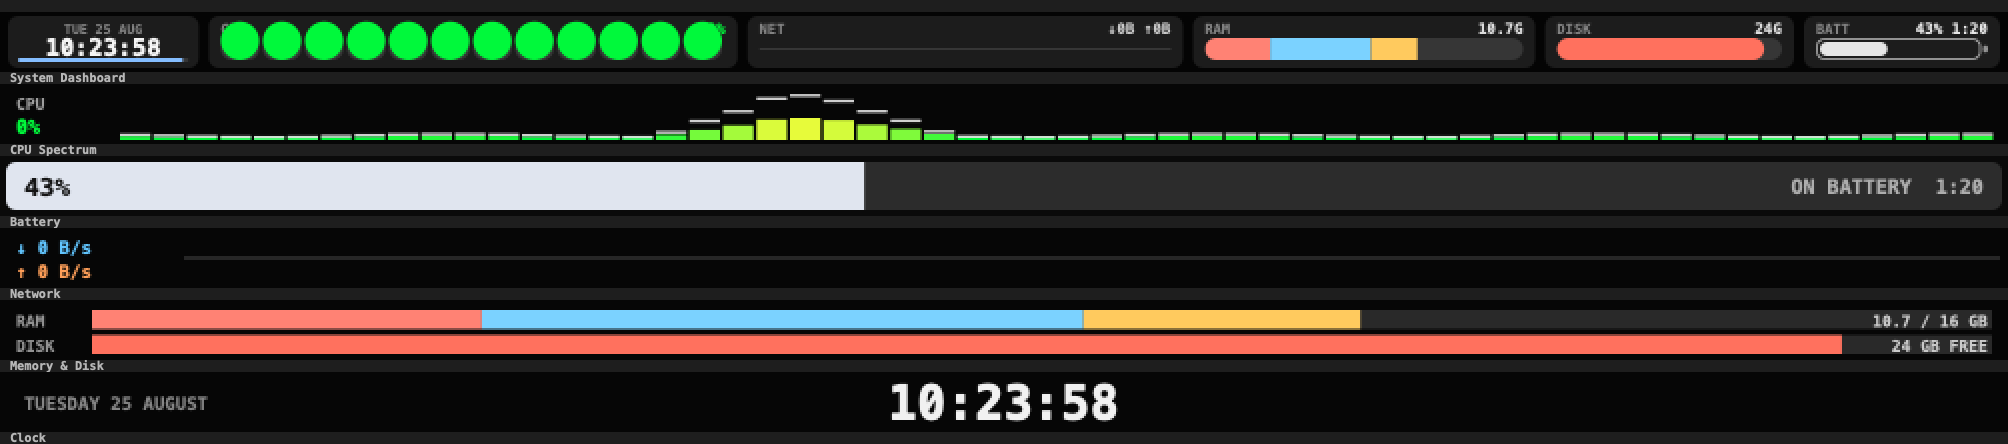
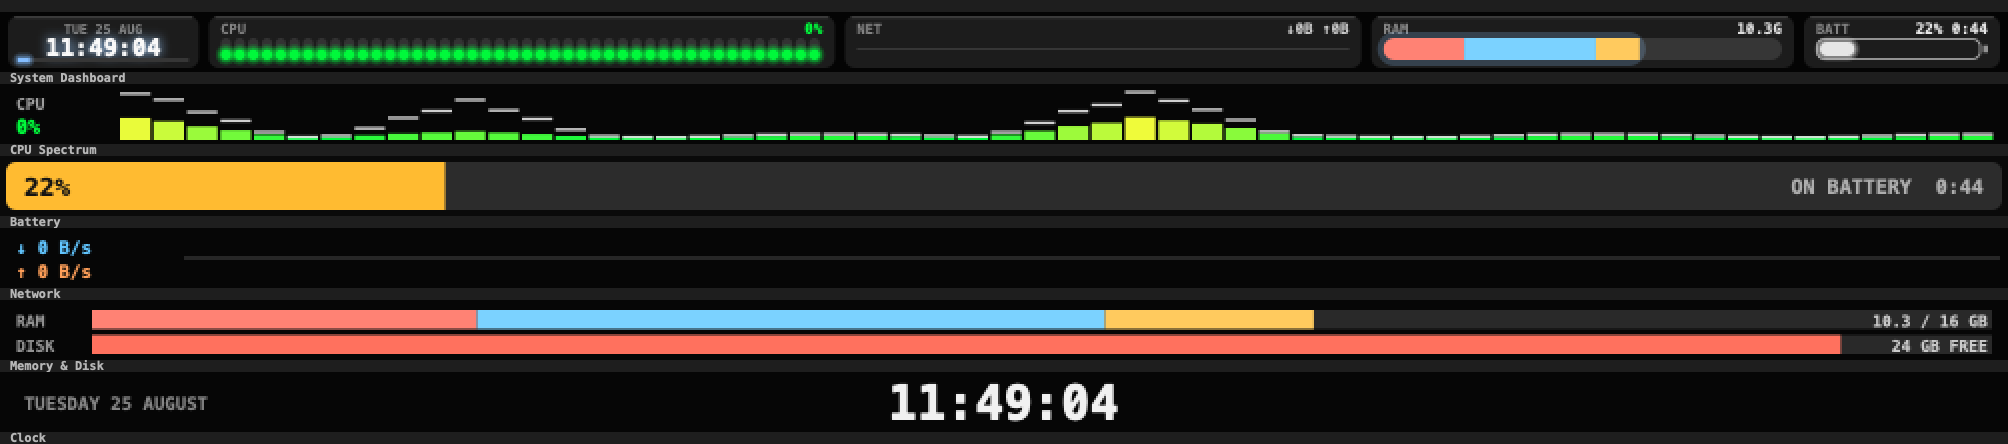
Drop the dashboard's disk panel, add glow
Disk is gone from the dashboard and the remaining five panels share the
width. The standalone Memory & Disk scene still reports it.

The glow stacks each shape a few times, larger and fainter, instead of
using a CoreGraphics shadow. Shadowed transparency layers measured 16% of
a core for a barely visible bloom; this is brighter at 11%. Shapes under
3pt skip the rounded path, since building CGPaths dominates once the bloom
means hundreds of fills a frame.

diff --git a/Sources/Toys/DashboardToy.swift b/Sources/Toys/DashboardToy.swift
@@ -52,7 +52,7 @@ final class DashboardToy: Toy {
         // crowd everything else on the narrower, button-mode canvas
         let clockW = min(96, max(64, size.width * 0.095))
         let battW = min(98, max(68, size.width * 0.098))
-        let flexible = size.width - pad * 2 - gap * 5 - clockW - battW
+        let flexible = size.width - pad * 2 - gap * 4 - clockW - battW
         guard flexible > 80 else { return }
 
         var x = pad
@@ -63,8 +63,8 @@ final class DashboardToy: Toy {
         }
 
         let panels = [
-            advance(clockW), advance(flexible * 0.34), advance(flexible * 0.28),
-            advance(flexible * 0.22), advance(flexible * 0.16), advance(battW),
+            advance(clockW), advance(flexible * 0.40), advance(flexible * 0.33),
+            advance(flexible * 0.27), advance(battW),
         ]
         for r in panels { card(ctx, r) }
 
@@ -72,8 +72,7 @@ final class DashboardToy: Toy {
         cpu(ctx, panels[1])
         network(ctx, panels[2])
         memory(ctx, panels[3])
-        disk(ctx, panels[4])
-        battery(ctx, panels[5])
+        battery(ctx, panels[4])
     }
 
     // MARK: - Panel furniture
@@ -82,6 +81,44 @@ final class DashboardToy: Toy {
         ctx.setFillColor(CGColor(gray: 0.085, alpha: 1))
         ctx.addPath(CGPath(roundedRect: r, cornerWidth: 5, cornerHeight: 5, transform: nil))
         ctx.fillPath()
+        // a hairline along the top edge so the card has a lit lip
+        ctx.setFillColor(CGColor(gray: 0.20, alpha: 1))
+        ctx.addPath(CGPath(roundedRect: CGRect(x: r.minX + 3, y: r.maxY - 1.2,
+                                               width: r.width - 6, height: 1),
+                           cornerWidth: 0.5, cornerHeight: 0.5, transform: nil))
+        ctx.fillPath()
+    }
+
+    /// Bloom by drawing the shape a few times, each larger and fainter, rather
+    /// than with a CoreGraphics shadow. A shadowed transparency layer per group
+    /// measured at 16% of a core for a glow you could barely see; this is a
+    /// fraction of that and far brighter.
+    private func glowCapsule(_ ctx: CGContext, _ r: CGRect, _ color: CGColor,
+                             spread: CGFloat = 3) {
+        guard r.width > 0.4, r.height > 0.4 else { return }
+        if let faint = color.copy(alpha: 0.20) {
+            capsule(ctx, r.insetBy(dx: -spread, dy: -spread), faint)
+        }
+        if let mid = color.copy(alpha: 0.38) {
+            capsule(ctx, r.insetBy(dx: -spread * 0.5, dy: -spread * 0.5), mid)
+        }
+        capsule(ctx, r, color)
+        // a brighter core along the top, which reads as the element being lit
+        if r.height > 5, let hot = color.copy(alpha: 0.55) {
+            capsule(ctx, CGRect(x: r.minX + 1, y: r.maxY - r.height * 0.34,
+                                width: max(0, r.width - 2), height: r.height * 0.26),
+                    hot)
+        }
+    }
+
+    /// Text can't be bloomed by redrawing, so the clock keeps a real shadow.
+    /// It is one element, so the cost is negligible.
+    private func glowing(_ ctx: CGContext, _ color: CGColor, blur: CGFloat = 5,
+                         _ body: () -> Void) {
+        ctx.saveGState()
+        ctx.setShadow(offset: .zero, blur: blur, color: color.copy(alpha: 0.95))
+        body()
+        ctx.restoreGState()
     }
 
     /// Label on the left, value on the right, graphic area returned. The label
@@ -103,8 +140,15 @@ final class DashboardToy: Toy {
 
     private func capsule(_ ctx: CGContext, _ r: CGRect, _ color: CGColor) {
         guard r.width > 0.5, r.height > 0 else { return }
-        let radius = min(r.height, r.width) / 2
         ctx.setFillColor(color)
+        // Below a few points the rounding is invisible, and a plain fill skips
+        // building a CGPath. That matters when the bloom means hundreds of
+        // fills per frame.
+        if min(r.width, r.height) < 3 {
+            ctx.fill(r)
+            return
+        }
+        let radius = min(r.height, r.width) / 2
         ctx.addPath(CGPath(roundedRect: r, cornerWidth: radius, cornerHeight: radius,
                            transform: nil))
         ctx.fillPath()
@@ -130,15 +174,18 @@ final class DashboardToy: Toy {
 
         var timeSize: CGFloat = showDate ? 12 : 14
         while Text.width(time, size: timeSize) > inner.width, timeSize > 8 { timeSize -= 0.5 }
-        Text.draw(time, in: ctx, at: CGPoint(x: r.midX, y: r.minY + (showDate ? 6 : 9)),
-                  size: timeSize, color: CGColor(gray: 0.95, alpha: 1), align: .center)
+        glowing(ctx, CGColor(red: 0.55, green: 0.75, blue: 1.0, alpha: 1), blur: 6) {
+            Text.draw(time, in: ctx, at: CGPoint(x: r.midX, y: r.minY + (showDate ? 6 : 9)),
+                      size: timeSize, color: CGColor(gray: 0.97, alpha: 1), align: .center)
+        }
 
         let frac = CGFloat(Double(c.second ?? 0) / 60)
         let track = CGRect(x: inner.minX, y: r.minY + 3, width: inner.width, height: 2)
         capsule(ctx, track, CGColor(gray: 0.16, alpha: 1))
-        capsule(ctx, CGRect(x: track.minX, y: track.minY,
-                            width: max(2, track.width * frac), height: track.height),
-                CGColor(red: 0.45, green: 0.68, blue: 1.0, alpha: 1))
+        let sweep = CGColor(red: 0.45, green: 0.68, blue: 1.0, alpha: 1)
+        glowCapsule(ctx, CGRect(x: track.minX, y: track.minY,
+                                width: max(2, track.width * frac), height: track.height),
+                    sweep, spread: 2.5)
     }
 
     private func cpu(_ ctx: CGContext, _ r: CGRect) {
@@ -148,21 +195,25 @@ final class DashboardToy: Toy {
 
         // A dozen cores across a 260pt panel would be 20pt-wide slabs, so
         // interpolate up to a denser spectrum instead.
-        let count = max(bars.count, min(52, Int(area.width / 5)))
+        let count = max(bars.count, min(44, Int(area.width / 6)))
         let slot = area.width / CGFloat(count)
         let barW = max(1.5, slot - 1.6)
         // never taller than the graphic area, whatever the bar width
         let floor = min(barW, area.height)
+        for i in 0..<count {
+            let x = area.minX + CGFloat(i) * slot
+            capsule(ctx, CGRect(x: x, y: area.minY, width: barW, height: area.height),
+                    CGColor(gray: 0.15, alpha: 1))
+        }
         for i in 0..<count {
             let f = Double(i) / Double(max(1, count - 1)) * Double(bars.count - 1)
             let a = bars[Int(f)]
             let b = bars[min(bars.count - 1, Int(f) + 1)]
             let v = a + (b - a) * (f - f.rounded(.down))
             let x = area.minX + CGFloat(i) * slot
-            capsule(ctx, CGRect(x: x, y: area.minY, width: barW, height: area.height),
-                    CGColor(gray: 0.15, alpha: 1))
             let h = max(floor, min(area.height, CGFloat(v) * area.height))
-            capsule(ctx, CGRect(x: x, y: area.minY, width: barW, height: h), heat(v))
+            glowCapsule(ctx, CGRect(x: x, y: area.minY, width: barW, height: h),
+                        heat(v), spread: 2.5)
         }
     }
 
@@ -174,18 +225,20 @@ final class DashboardToy: Toy {
         ctx.fill(CGRect(x: area.minX, y: mid - 0.5, width: area.width, height: 1))
         let slot = area.width / CGFloat(netSamples)
         let half = area.height / 2 - 0.5
+        let downColor = CGColor(red: 0.32, green: 0.72, blue: 1.0, alpha: 1)
+        let upColor = CGColor(red: 1.0, green: 0.55, blue: 0.28, alpha: 1)
         for (i, s) in netHistory.enumerated() {
             let x = area.minX + CGFloat(i) * slot
             let w = max(1, slot - 0.5)
             let dh = CGFloat(min(1, s.down / netPeak)) * half
             let uh = CGFloat(min(1, s.up / netPeak)) * half
             if dh > 0.3 {
-                capsule(ctx, CGRect(x: x, y: mid, width: w, height: dh),
-                        CGColor(red: 0.32, green: 0.72, blue: 1.0, alpha: 1))
+                glowCapsule(ctx, CGRect(x: x, y: mid, width: w, height: dh),
+                            downColor, spread: 2.5)
             }
             if uh > 0.3 {
-                capsule(ctx, CGRect(x: x, y: mid - uh, width: w, height: uh),
-                        CGColor(red: 1.0, green: 0.55, blue: 0.28, alpha: 1))
+                glowCapsule(ctx, CGRect(x: x, y: mid - uh, width: w, height: uh),
+                            upColor, spread: 2.5)
             }
         }
     }
@@ -196,6 +249,11 @@ final class DashboardToy: Toy {
                           CGColor(gray: 0.84, alpha: 1))
         guard stats.totalRAM > 0 else { return }
         capsule(ctx, area, CGColor(gray: 0.16, alpha: 1))
+        let usedW = area.width * CGFloat(min(1, used / stats.totalRAM))
+        if let halo = CGColor(red: 0.5, green: 0.72, blue: 1.0, alpha: 0.22) as CGColor? {
+            capsule(ctx, CGRect(x: area.minX, y: area.minY, width: usedW, height: area.height)
+                        .insetBy(dx: -3, dy: -3), halo)
+        }
         // one clipped capsule, filled in segments, so the ends stay rounded
         ctx.saveGState()
         let radius = area.height / 2
@@ -214,19 +272,6 @@ final class DashboardToy: Toy {
             x += w
         }
         ctx.restoreGState()
-    }
-
-    private func disk(_ ctx: CGContext, _ r: CGRect) {
-        let freeGB = (stats.diskTotal - stats.diskUsed) / 1_000_000_000
-        let frac = stats.diskTotal > 0 ? stats.diskUsed / stats.diskTotal : 0
-        let area = header(ctx, r, "DISK", String(format: "%.0fG", freeGB),
-                          CGColor(gray: 0.84, alpha: 1))
-        capsule(ctx, area, CGColor(gray: 0.16, alpha: 1))
-        capsule(ctx, CGRect(x: area.minX, y: area.minY,
-                            width: max(area.height, area.width * CGFloat(frac)),
-                            height: area.height),
-                frac > 0.9 ? CGColor(red: 1.0, green: 0.35, blue: 0.3, alpha: 1)
-                           : CGColor(red: 0.55, green: 0.85, blue: 0.55, alpha: 1))
     }
 
     private func battery(_ ctx: CGContext, _ r: CGRect) {
@@ -259,9 +304,10 @@ final class DashboardToy: Toy {
         capsule(ctx, CGRect(x: body.maxX + 1, y: body.midY - 1.8, width: 2.5, height: 3.6),
                 CGColor(gray: 0.5, alpha: 1))
         let inner = body.insetBy(dx: 2, dy: 2)
-        capsule(ctx, CGRect(x: inner.minX, y: inner.minY,
-                            width: max(inner.height, inner.width * CGFloat(stats.batteryLevel)),
-                            height: inner.height), color)
+        glowCapsule(ctx, CGRect(x: inner.minX, y: inner.minY,
+                                width: max(inner.height,
+                                           inner.width * CGFloat(stats.batteryLevel)),
+                                height: inner.height), color, spread: 2.5)
         if stats.charging {
             ctx.setFillColor(CGColor(gray: 0.05, alpha: 1))
             ctx.beginPath()

diff --git a/README.md b/README.md
@@ -102,6 +102,13 @@ The app opens on System Dashboard each time. Its panels lay themselves out from
 the bar width, dropping a label or shrinking the clock rather than letting text
 collide, so it survives both the full-width and button-mode canvases.
 
+Its glow is drawn by stacking each shape a few times, larger and fainter each
+time, rather than with a CoreGraphics shadow. A shadowed transparency layer per
+group measured at 16% of a core for a bloom you could barely see; stacked fills
+are brighter and cost a third of that. Below about 3pt the shapes skip the
+rounded path entirely, since the rounding is invisible at that size and building
+a CGPath is the expensive part when there are hundreds of fills per frame.
+
 Animation only runs while the bar is open, so it costs nothing when idle.
 
 ## The scenes
@@ -118,8 +125,8 @@ Pendulum Wave†, Tunnels†, LED Marquee†
 
 **Ambient.** Plasma†, Metaballs†, Aquarium†, Snowfall†, Aurora†, Mandelbrot†
 
-**System.** System Dashboard (all of the below at once, and what the app opens
-on), CPU Spectrum, Battery, Network, Memory & Disk, Clock†
+**System.** System Dashboard (clock, CPU, network, RAM and battery at a glance,
+and what the app opens on), CPU Spectrum, Battery, Network, Memory & Disk, Clock†
 
 **Silly.** Hacker Terminal†, Almost Done†, Dominoes†
 
